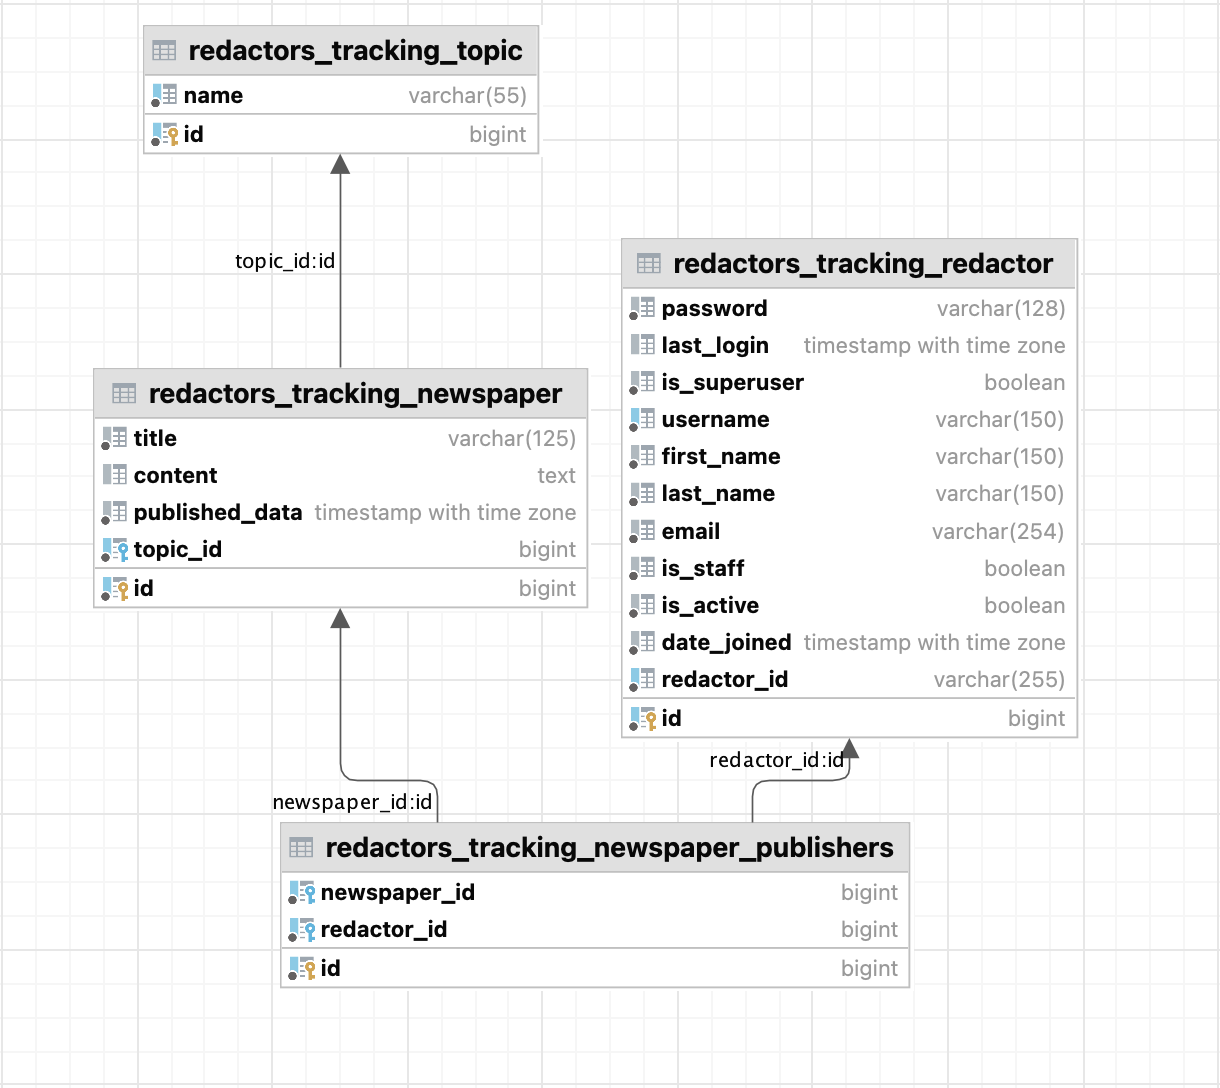
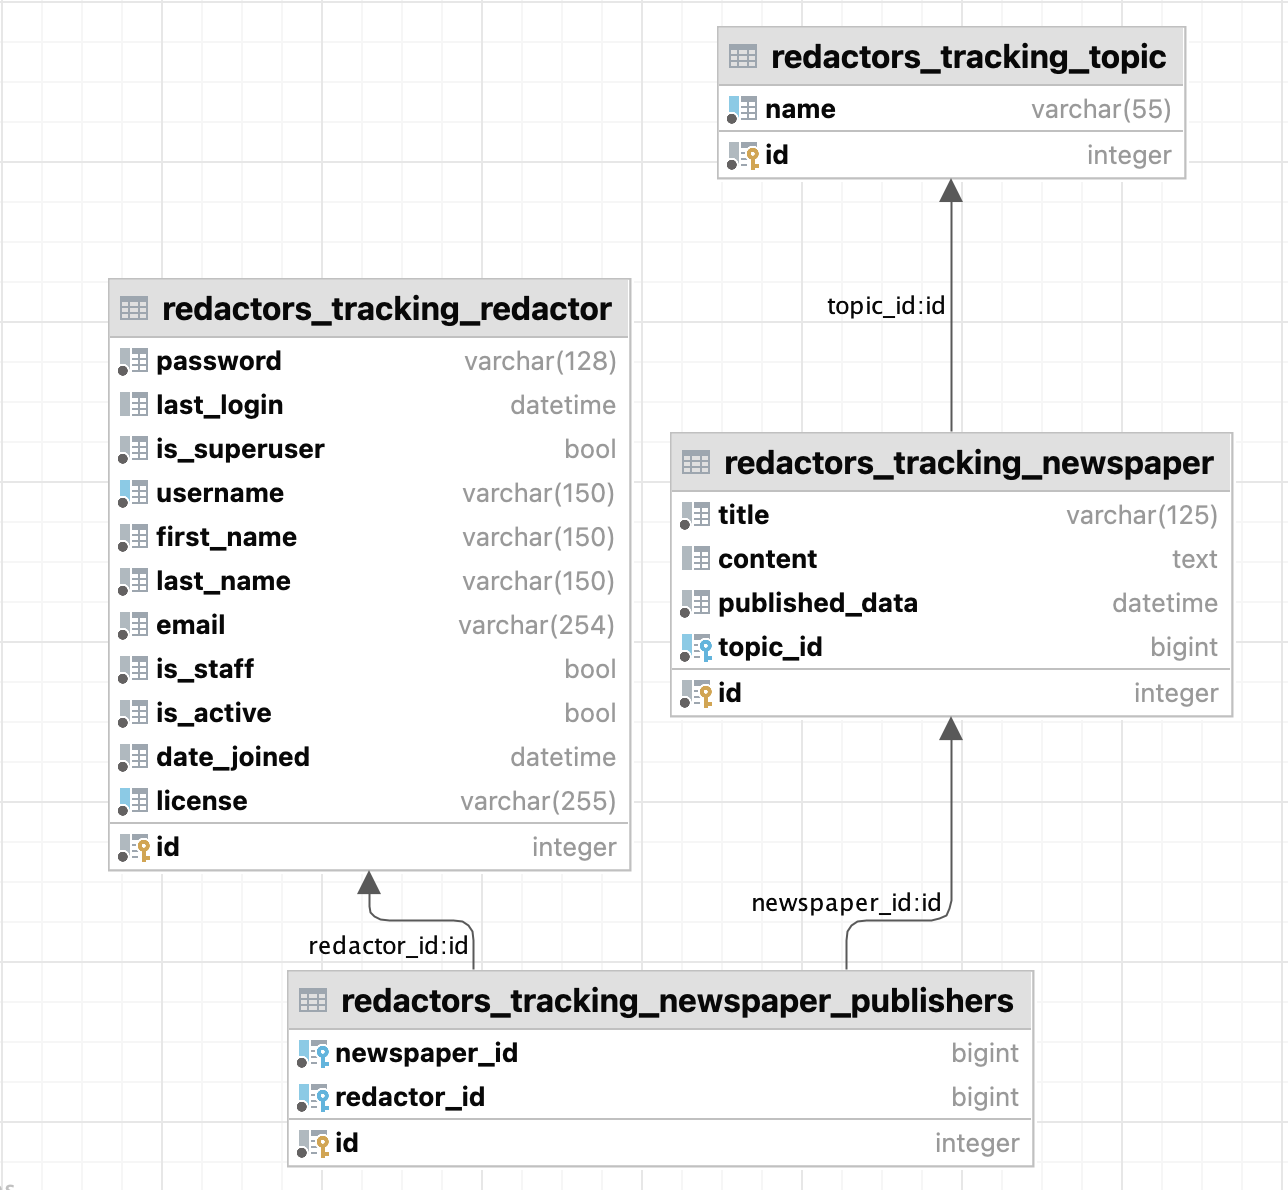
change redactor_id to license

diff --git a/test/test_forms.py b/test/test_forms.py
@@ -4,10 +4,10 @@ from redactors_tracking.forms import RedactorCreationForm, RedactorSearchForm, N
 
 
 class FormsTest(TestCase):
-    def test_create_redactor_form_with_redactor_id_first_name_last_name(self):
+    def test_create_redactor_form_with_license_first_name_last_name(self):
         form_data = {
             "username": "test_name",
-            "redactor_id": "NNN12345",
+            "license": "NNN12345",
             "first_name": "test_first",
             "last_name": "test_last",
             "password1": "test_password",
@@ -18,10 +18,10 @@ class FormsTest(TestCase):
         self.assertTrue(form.is_valid())
         self.assertEqual(form.cleaned_data, form_data)
 
-    def test_create_redactor_form_invalid_len_numbers_redactor_id(self):
+    def test_create_redactor_form_invalid_len_numbers_license(self):
         form_data = {
             "username": "test_name",
-            "redactor_id": "NNN1234",
+            "license": "NNN1234",
             "first_name": "test_first",
             "last_name": "test_last",
             "password1": "test_password",
@@ -32,10 +32,10 @@ class FormsTest(TestCase):
         self.assertFalse(form.is_valid())
         self.assertNotEquals(form.cleaned_data, form_data)
 
-    def test_create_redactor_form_invalid_letter_redactor_id(self):
+    def test_create_redactor_form_invalid_letter_license(self):
         form_data = {
             "username": "test_name",
-            "redactor_id": "aQN12342",
+            "license": "aQN12342",
             "first_name": "test_first",
             "last_name": "test_last",
             "password1": "test_password",
@@ -46,10 +46,10 @@ class FormsTest(TestCase):
         self.assertFalse(form.is_valid())
         self.assertNotEquals(form.cleaned_data, form_data)
 
-    def test_create_redactor_form_invalid_len_letters_redactor_id(self):
+    def test_create_redactor_form_invalid_len_letters_license(self):
         form_data = {
             "username": "test_name",
-            "redactor_id": "QW12342",
+            "license": "QW12342",
             "first_name": "test_first",
             "last_name": "test_last",
             "password1": "test_password",

diff --git a/redactors_tracking/forms.py b/redactors_tracking/forms.py
@@ -50,29 +50,29 @@ class TopicSearchForm(forms.Form):
                            )
 
 
-def validate_redactor_id(redactor_id):
-    if len(redactor_id) != 8:
+def validate_license(license):
+    if len(license) != 8:
         raise ValidationError("Redactor id should consist of 8 characters")
-    elif not redactor_id[:3].isupper() or not redactor_id[:3].isalpha():
+    elif not license[:3].isupper() or not license[:3].isalpha():
         raise ValidationError("First 3 characters should be uppercase letters")
-    elif not redactor_id[3:].isdigit():
+    elif not license[3:].isdigit():
         raise ValidationError("Last 5 characters should be digits")
 
-    return redactor_id
+    return license
 
 
 class RedactorCreationForm(UserCreationForm):
     class Meta(UserCreationForm.Meta):
         model = Redactor
         fields = UserCreationForm.Meta.fields + (
-            "redactor_id",
+            "license",
             "first_name",
             "last_name",
         )
 
-    def clean_redactor_id(self):
-        redactor_id = self.cleaned_data["redactor_id"]
-        return validate_redactor_id(redactor_id)
+    def clean_license(self):
+        license = self.cleaned_data["license"]
+        return validate_license(license)
 
 
 class RedactorUpdateForm(forms.ModelForm):
@@ -80,13 +80,13 @@ class RedactorUpdateForm(forms.ModelForm):
         model = Redactor
         fields = [
             "username",
-            "redactor_id",
+            "license",
             "first_name",
             "last_name",
         ]
 
-    def clean_redactor_id(self):
-        redactor_id = self.cleaned_data.get("redactor_id")
-        if redactor_id:
-            return validate_redactor_id(redactor_id)
-        return redactor_id
+    def clean_license(self):
+        license = self.cleaned_data.get("license")
+        if license:
+            return validate_license(license)
+        return license

diff --git a/test/test_admin.py b/test/test_admin.py
@@ -14,21 +14,21 @@ class AdminSiteTest(TestCase):
         self.redactor = get_user_model().objects.create_user(
             username="test_name",
             password="test_password",
-            redactor_id="QLT12345",
+            license="QLT12345",
         )
 
-    def test_redactor_id_display_on_admin_page(self):
+    def test_license_display_on_admin_page(self):
         url = reverse("admin:redactors_tracking_redactor_changelist")
         response = self.client.get(url)
-        self.assertContains(response, self.redactor.redactor_id)
+        self.assertContains(response, self.redactor.license)
 
-    def test_redactor_id_display_on_admin_detail_page(self):
+    def test_license_display_on_admin_detail_page(self):
         url = reverse("admin:redactors_tracking_redactor_change", args=[self.redactor.id])
         response = self.client.get(url)
-        self.assertContains(response, self.redactor.redactor_id)
+        self.assertContains(response, self.redactor.license)
 
-    def test_redactor_id_display_on_admin_add_page(self):
+    def test_license_display_on_admin_add_page(self):
         url = reverse("admin:redactors_tracking_redactor_add")
         response = self.client.get(url)
-        self.assertContains(response, "redactor_id")
-        self.assertTrue(response, self.redactor.redactor_id)
+        self.assertContains(response, "license")
+        self.assertTrue(response, self.redactor.license)

diff --git a/test/test_models.py b/test/test_models.py
@@ -13,19 +13,19 @@ class ModelTest(TestCase):
         username = "test"
         first_name = "test_first"
         last_name = "last_name"
-        redactor_id = "AAA12345"
+        license = "AAA12345"
         password = "password"
         redactor = get_user_model().objects.create_user(
             username=username,
             first_name=first_name,
             last_name=last_name,
-            redactor_id=redactor_id,
+            license=license,
             password=password,
         )
         self.assertEqual(redactor.username, username)
         self.assertEqual(redactor.first_name, first_name)
         self.assertEqual(redactor.last_name, last_name)
-        self.assertEqual(redactor.redactor_id, redactor_id)
+        self.assertEqual(redactor.license, license)
         self.assertTrue(redactor.check_password(password))
 
     def test_newspaper_str(self):

diff --git a/redactors_tracking/admin.py b/redactors_tracking/admin.py
@@ -5,9 +5,9 @@ from redactors_tracking.models import Redactor, Newspaper, Topic
 
 @admin.register(Redactor)
 class RedactorAdmin(UserAdmin):
-    list_display = UserAdmin.list_display + ("redactor_id",)
+    list_display = UserAdmin.list_display + ("license",)
     fieldsets = UserAdmin.fieldsets + (
-        (("Additional info", {"fields": ("redactor_id",)}),)
+        (("Additional info", {"fields": ("license",)}),)
     )
     add_fieldsets = UserAdmin.add_fieldsets + (
         (
@@ -17,7 +17,7 @@ class RedactorAdmin(UserAdmin):
                     "fields": (
                         "first_name",
                         "last_name",
-                        "redactor_id",
+                        "license",
                     )
                 },
             ),

diff --git a/test/test_views.py b/test/test_views.py
@@ -19,7 +19,7 @@ class PrivateTopicTest(TestCase):
     def setUp(self) -> None:
         self.user = get_user_model().objects.create(
             username="test_name",
-            redactor_id="VVV12345",
+            license="VVV12345",
             password="test_password"
         )
         self.client.force_login(self.user)
@@ -50,7 +50,7 @@ class PrivateNewspaperTest(TestCase):
     def setUp(self) -> None:
         self.user = get_user_model().objects.create(
             username="test_name",
-            redactor_id="VVV12345",
+            license="VVV12345",
             password="test_password"
         )
         self.client.force_login(self.user)

diff --git a/redactors_tracking/migrations/0002_rename_redactor_id_redactor_license.py b/redactors_tracking/migrations/0002_rename_redactor_id_redactor_license.py
@@ -1,0 +1,17 @@
+# Generated by Django 4.2.7 on 2023-12-03 12:10
+
+from django.db import migrations
+
+
+class Migration(migrations.Migration):
+    dependencies = [
+        ("redactors_tracking", "0001_initial"),
+    ]
+
+    operations = [
+        migrations.RenameField(
+            model_name="redactor",
+            old_name="redactor_id",
+            new_name="license",
+        ),
+    ]

diff --git a/redactors_tracking/models.py b/redactors_tracking/models.py
@@ -28,7 +28,7 @@ class Newspaper(models.Model):
 
 
 class Redactor(AbstractUser):
-    redactor_id = models.CharField(max_length=255, unique=True)
+    license = models.CharField(max_length=255, unique=True)
 
     class Meta:
         ordering = ["username"]
